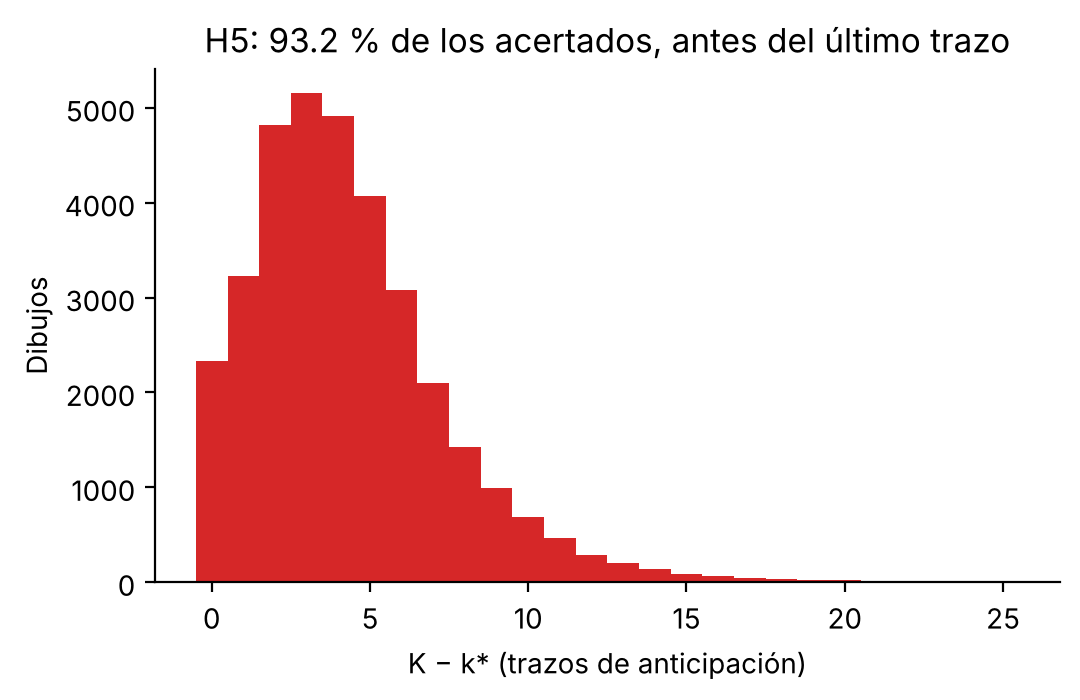
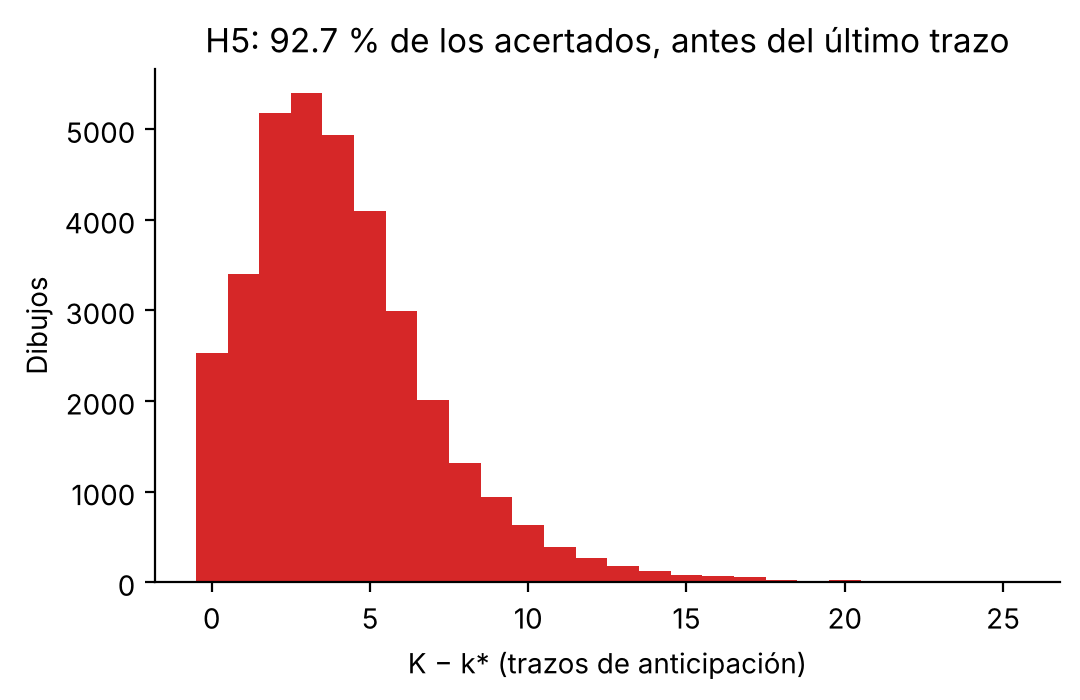
Docs y paper: resultados con el M2-P mixto y los dos esquemas para H2

diff --git a/paper/secciones/3c_modelos.tex b/paper/secciones/3c_modelos.tex
@@ -1,7 +1,8 @@
 % III-C · Redacta: Cristian · Revisa: Elias · Semana 10 · ~0,4 pág.
 % Sale de: avance 3.3 y 3.4 (Cuadro 3); docs/03 y docs/04.
 % Debe cubrir: softmax y entropía cruzada en una línea, M1, la CNN de M2
-% y M2-P (Cuadro 3, GAP), el esquema de prefijos de M2-P, la búsqueda de
+% y M2-P (Cuadro 3, GAP), el esquema mixto de M2-P y por qué se cambió desde
+% el de solo prefijos (regla fijada antes, docs/04 "Decisión sobre H2"), la búsqueda de
 % hiperparámetros, las semillas, la parada temprana y UNA línea que diga
 % que el alcance se redujo respecto al avance y por qué.
 \subsection{Modelos y entrenamiento}

diff --git a/paper/tablas/tabla_hipotesis.tex b/paper/tablas/tabla_hipotesis.tex
@@ -3,8 +3,8 @@
 Hip. & Criterio & Valor por semilla & Veredicto \\
 \midrule
 H1 & caída (pts) & 21,7; 24,0; 22,6 & confirmada \\
-H2 & IC inf. $\Delta$AUC / caída final (pts) & 0,072 / 1,8; 0,097 / 0,9; 0,075 / 2,2 & refutada \\
-H4 & $\rho$ & 0,91; 0,86; 0,91 & confirmada \\
-H5 & IC inf. prop. & 0,758; 0,749; 0,756 & confirmada \\
+H2 & IC inf. $\Delta$AUC / caída final (pts) & 0,057 / 0,6; 0,098 / -2,2; 0,067 / 0,2 & confirmada \\
+H4 & $\rho$ & 0,90; 0,89; 0,89 & confirmada \\
+H5 & IC inf. prop. & 0,765; 0,772; 0,769 & confirmada \\
 \bottomrule
 \end{tabular}

diff --git a/paper/secciones/4b_h1_h2_h5.tex b/paper/secciones/4b_h1_h2_h5.tex
@@ -1,5 +1,8 @@
 % IV-B · Redacta: Omar · Revisa: Cristian · Semanas 12 y 13 · ~0,5 pág.
 % Debe cubrir: Tabla 2, Figs. 2, 3 y 6, y el veredicto de H1, H2 y H5 con su número.
+% H2: reportar los dos esquemas de M2-P en validación (el original refutó H2;
+% el mixto la cumple) y que el cambio se decidió con una regla fijada antes.
+% El original está en trabajo/alternativas/M2-P_prefijos/resultados/validacion/.
 \subsection{¿Con cuántos trazos? (H1, H2 y H5)}
 \pendiente{H1, H2 y H5}
 

diff --git a/paper/tablas/tabla_modelos.tex b/paper/tablas/tabla_modelos.tex
@@ -4,6 +4,6 @@ Modelo & Semillas & Exactitud (\%) & Top-3 (\%) & AUC$_{\mathrm{prog}}$ \\
 \midrule
 M1 & 1 & 72,4 & 89,9 & 0,520 \\
 M2 & 3 & 82,7 $\pm$ 1,2 & 95,7 $\pm$ 0,5 & 0,611 $\pm$ 0,018 \\
-M2-P & 3 & 81,0 $\pm$ 0,6 & 94,7 $\pm$ 0,2 & 0,695 $\pm$ 0,004 \\
+M2-P & 3 & 83,1 $\pm$ 0,5 & 95,7 $\pm$ 0,2 & 0,687 $\pm$ 0,004 \\
 \bottomrule
 \end{tabular}

diff --git a/docs/00_como_ejecutar.md b/docs/00_como_ejecutar.md
@@ -40,7 +40,7 @@ Tiempos medidos en la corrida oficial (CPU de 4 núcleos, sin GPU, 27 de octubre
 |---|---|---|---|
 | Datos | Lee 300 000 dibujos y rasteriza sus 1,87 millones de prefijos (entrenamiento + validación) | 6 min con 4 procesos | 10 a 20 min la primera vez (2 procesos); luego se lee la caché |
 | Búsqueda | 12 combinaciones de M2 y 3 de M1, con 5 épocas y el 30 % de los datos | 64 min | ya hecha: solo se lee |
-| Entrenamiento | M1 (1 semilla), M2 y M2-P (3 semillas cada uno), hasta 20 épocas | 3 h 33 min (~135 s por época de M2 o M2-P; ~10 s de M1) | ya hecho: solo se carga |
+| Entrenamiento | M1 (1 semilla), M2 y M2-P (3 semillas cada uno), hasta 20 épocas | 3 h 33 min con el M2-P original (~135 s por época de M2 o M2-P; ~10 s de M1); el M2-P mixto, 1 h 32 min más (~100 s por época) | ya hecho: solo se carga |
 | Evaluación | Métricas, hipótesis y figuras en validación | 14 min la primera vez; ~3 min con las predicciones guardadas | unos minutos |
 
 En total, 4 h 57 min. La caché ocupa unos 1,5 GB en disco y la corrida usó unos 4,6 GB de RAM: cabe en Colab. Si reentrenan algo en una T4, será más rápido que en CPU (AMP se activa solo con GPU).
@@ -51,7 +51,7 @@ En total, 4 h 57 min. La caché ocupa unos 1,5 GB en disco y la corrida usó uno
 modelos = E.entrenar_modelos(cfg, D, hp, nombres=("M2",))
 ```
 
-y en la otra `nombres=("M2-P",)`. Solo hace falta si reentrenan (por ejemplo, el esquema mixto de `04_entrenamiento_y_busqueda.md`). Al final, una sola persona ejecuta todo el notebook: los modelos ya entrenados solo se cargan.
+y en la otra `nombres=("M2-P",)`. Solo hace falta si reentrenan (por ejemplo, otra proporción del esquema mixto de `04_entrenamiento_y_busqueda.md`). Al final, una sola persona ejecuta todo el notebook: los modelos ya entrenados solo se cargan.
 
 ## 4. Retomar cuando Colab corta la sesión
 
@@ -108,7 +108,7 @@ display(R_p["veredictos"])
 
 `evaluar` escribe en `trabajo_pruebas/resultados/validacion/` y deja intacto `trabajo/`. Con funciones sueltas (`metricas`, `analisis`, `estadistica`) no se escribe nada en disco.
 
-**Experimentos que reentrenan** (otro grosor, otros dibujos por categoría, el esquema mixto…). En la primera celda pongan `CARPETA_TRABAJO = "trabajo_pruebas"` o `MODO_RAPIDO = True`, y hagan el cambio en la línea `cfg = replace(cfg, ...)` de la segunda celda, que va **después** de `config_rapida` (si no, el modo rápido lo pisa). En `trabajo_pruebas` el notebook reentrena todo con datos completos (horas); en modo rápido tarda minutos pero los números no significan nada: sirve para ver el efecto, no para el paper.
+**Experimentos que reentrenan** (otro grosor, otros dibujos por categoría, otra proporción del esquema mixto…). En la primera celda pongan `CARPETA_TRABAJO = "trabajo_pruebas"` o `MODO_RAPIDO = True`, y hagan el cambio en la línea `cfg = replace(cfg, ...)` de la segunda celda, que va **después** de `config_rapida` (si no, el modo rápido lo pisa). En `trabajo_pruebas` el notebook reentrena todo con datos completos (horas); en modo rápido tarda minutos pero los números no significan nada: sirve para ver el efecto, no para el paper.
 
 Si un cambio va a quedarse, se decide en grupo con resultados de validación y se anota para el paper.
 
@@ -131,11 +131,12 @@ Fuera de Colab, el notebook usa como raíz la carpeta de arriba de `notebooks/` 
 
 ## 10. La corrida oficial (`trabajo/`)
 
-Hecha el 27 de octubre de 2026 en CPU, con la configuración por defecto de `config.py` (grosor 16, margen 2) y **solo validación**: el conjunto de prueba no se tocó (`USAR_PRUEBA = False`). Está en el repositorio: `trabajo/modelos/` (pesos, historial e hiperparámetros de cada modelo) y `trabajo/resultados/` (búsqueda, particiones, predicciones, métricas, hipótesis, figuras y tablas LaTeX).
+Hecha el 27 de octubre de 2026 en CPU (el M2-P mixto, el 28), con la configuración por defecto de `config.py` (grosor 16, margen 2, `esquema_m2p = "mixto"`) y **solo validación**: el conjunto de prueba no se tocó (`USAR_PRUEBA = False`). Está en el repositorio: `trabajo/modelos/` (pesos, historial e hiperparámetros de cada modelo) y `trabajo/resultados/` (búsqueda, particiones, predicciones, métricas, hipótesis, figuras y tablas LaTeX).
 
 - **Búsqueda.** M2: Adam, η = 0,003, sin dropout (79,0 % en validación; la mejor con SGD, 57,6 %). M1: Adam, η = 0,003. M2-P hereda la de M2. La tasa elegida es la más alta de la rejilla.
-- **Modelos** (validación, todas las categorías, media ± desviación de 3 semillas): exactitud final M1 72,4 %, M2 82,7 ± 1,2 %, M2-P 81,0 ± 0,6 %; AUC progresiva 0,520, 0,611 ± 0,018 y 0,695 ± 0,004.
-- **Hipótesis en validación:** H1, H4 y H5 confirmadas en las tres semillas; **H2 refutada**: M2-P gana AUC en las tres (límite inferior del IC entre 0,072 y 0,097) pero pierde 1,8, 0,9 y 2,2 puntos de exactitud final, y el criterio permite 1. Ver "Si H2 falla" en `04_entrenamiento_y_busqueda.md`.
-- **Parada temprana.** M2 con la semilla 1 se detuvo en la época 6 (mejor época, la 3) y quedó en 81,3 %, frente a 83,3 % y 83,5 % de las otras dos. Es la única semilla en la que H2 se cumple.
+- **Modelos** (validación, todas las categorías, media ± desviación de 3 semillas): exactitud final M1 72,4 %, M2 82,7 ± 1,2 %, M2-P 83,1 ± 0,5 %; AUC progresiva 0,520, 0,611 ± 0,018 y 0,688 ± 0,004.
+- **Hipótesis en validación:** H1, H2, H4 y H5 confirmadas en las tres semillas.
+- **H2 y el esquema de M2-P.** Con el esquema original del plan v5 (siempre un prefijo al azar), H2 salió refutada: M2-P perdía 1,8, 0,9 y 2,2 puntos de exactitud final. Se aplicó el plan B, el esquema mixto, con una regla fijada antes de entrenarlo; lo cumplió y es el M2-P oficial. El original está en `trabajo/alternativas/M2-P_prefijos/`, y el paper reporta los dos. Detalle en "Decisión sobre H2" de `04_entrenamiento_y_busqueda.md`.
+- **Parada temprana.** M2 con la semilla 1 se detuvo en la época 6 (mejor época, la 3) y quedó en 81,3 %, frente a 83,3 % y 83,5 % de las otras dos. Por eso, con esa semilla, M2-P supera a M2 al final.
 
 Los resultados de **prueba** se generan una sola vez, en la semana 13 (sección 8).

diff --git a/docs/04_entrenamiento_y_busqueda.md b/docs/04_entrenamiento_y_busqueda.md
@@ -9,9 +9,10 @@
 ### Qué imagen ve cada modelo (`indices_de_epoca`)
 
 - **M1 y M2 (`'completos'`):** en cada época, el dibujo completo de cada dibujo de entrenamiento.
-- **M2-P (`'prefijos'`):** en cada época, **un prefijo al azar** de cada dibujo, con k uniforme entre 1 y K. En la época siguiente se sortea otro k.
+- **M2-P (`'mixto'`, el oficial):** en cada época, con probabilidad `m2p_prob_completo = 0.5` el dibujo completo, y si no **un prefijo al azar**, con k uniforme entre 1 y K. En la época siguiente se vuelve a sortear.
+- **M2-P original del plan v5 (`'prefijos'`):** siempre un prefijo al azar. Refutó H2 en validación y quedó como alternativa en `trabajo/alternativas/M2-P_prefijos/` (ver "Decisión sobre H2", al final).
 
-Cada dibujo aporta una imagen por época en los dos esquemas, así que M2 y M2-P hacen el mismo número de pasos y los dibujos con muchos trazos no pesan más.
+Cada dibujo aporta una imagen por época en todos los esquemas, así que M2 y M2-P hacen el mismo número de pasos y los dibujos con muchos trazos no pesan más.
 
 ### Bucle de entrenamiento (`entrenar`)
 
@@ -52,9 +53,11 @@ M2 y M2-P se entrenan con las semillas 0, 1 y 2; M1 solo con la 0 (`semillas_m1`
 | Entrenar solo un modelo | `E.entrenar_modelos(cfg, D, hp, nombres=("M2-P",))` |
 | Elegir hiperparámetros a mano | Editen el diccionario `hp` en el notebook antes de `entrenar_modelos`; si cambian `hp["M2"]`, cambien también `hp["M2-P"]` (debe heredar la misma) |
 
-### Si H2 falla porque M2-P pierde exactitud final
+### H2 y el esquema mixto
 
-En la corrida oficial (validación, `00_como_ejecutar.md`, sección 10) pasó justo esto: M2-P ganó entre 0,074 y 0,100 de AUC progresiva, pero perdió 1,8, 0,9 y 2,2 puntos de exactitud final con las semillas 0, 1 y 2; el criterio de H2 permite 1, así que H2 queda refutada. Si el grupo decide modificar el método, una opción razonable es **mezclar dibujos completos** en el entrenamiento de M2-P: por ejemplo, con probabilidad 0,5 usar el dibujo completo y si no un prefijo al azar. Ya está implementado: en el notebook, al crear `cfg`, agreguen `esquema_m2p="mixto"` (y si quieren otra proporción, `m2p_prob_completo=0.3`). Para reentrenar M2-P, borren antes `trabajo/modelos/M2-P_s*` y `trabajo/resultados/predicciones_*` o el notebook se detiene avisando que la configuración cambió. Conviene probarlo primero en `trabajo_pruebas` (`00_como_ejecutar.md`, sección 7). En CPU, las tres semillas de M2-P tardaron unas 2 h; en una T4, menos.
+Con el esquema original (un prefijo al azar), en validación pasó justo esto: M2-P ganó entre 0,074 y 0,100 de AUC progresiva, pero perdió 1,8, 0,9 y 2,2 puntos de exactitud final con las semillas 0, 1 y 2; el criterio de H2 permite 1. La modificación prevista es **mezclar dibujos completos** en el entrenamiento de M2-P: con probabilidad 0,5 el dibujo completo y si no un prefijo al azar (`esquema_m2p="mixto"`, que ahora es el valor por defecto de `config.py`). Se aplicó con la regla de la sección siguiente.
+
+Para experimentar con otra proporción o volver al esquema original, háganlo en `trabajo_pruebas` (`00_como_ejecutar.md`, sección 7) con `cfg = replace(cfg, esquema_m2p="prefijos")` o `m2p_prob_completo=0.3`; sobre `trabajo/` el notebook se detiene avisando que la configuración cambió. En CPU, las tres semillas de M2-P tardan entre 1,5 y 2 h; en una T4, menos.
 
 Es un cambio de método: debe decidirse con los resultados de **validación** (nunca de prueba) y declararse en el paper.
 
@@ -67,3 +70,5 @@ Con el esquema original, M2-P perdió más de 1 punto de exactitud final en vali
 3. **Regla para adoptarlo.** El esquema mixto pasa a ser el M2-P oficial si cumple el criterio de H2 **en las tres semillas** (límite inferior del IC 95 % de la diferencia de AUC > 0 y caída de exactitud final ≤ 1 punto). Si no lo cumple, se mantiene el esquema original y H2 se reporta refutada.
 4. **Qué se reporta.** En los dos casos, el paper reporta los resultados de validación de **ambos** esquemas y dice que el cambio se decidió con esta regla, antes de la prueba. Si se adopta el mixto, H4 y H5 se reevalúan con él, porque también usan M2-P.
 5. **La prueba.** En la semana 13 se evalúa solo el M2-P oficial. El otro esquema queda guardado en `trabajo/alternativas/` para el paper y no se evalúa en prueba.
+
+**Resultado (28 de octubre de 2026).** El esquema mixto cumplió el criterio de H2 en las tres semillas: límite inferior del IC de la diferencia de AUC 0,057, 0,098 y 0,067, y caída de exactitud final 0,6, −2,2 y 0,2 puntos (con la semilla 1, M2-P supera a M2, que se detuvo temprano en la época 6). Según la regla, **el mixto pasó a ser el M2-P oficial** (`trabajo/modelos/M2-P_s*`) y H4 y H5 se reevaluaron con él: siguen confirmadas. El esquema original quedó en `trabajo/alternativas/M2-P_prefijos/` para el paper. Entrenar las tres semillas tardó 1 h 32 min en CPU.

diff --git a/README.md b/README.md
@@ -8,7 +8,7 @@ Se entrenan tres modelos sobre 30 categorías de Quick, Draw! (5 pares confundib
 
 - **M1**, perceptrón multicapa, como referencia;
 - **M2**, CNN entrenada con dibujos completos;
-- **M2-P**, la misma CNN entrenada con un prefijo al azar de cada dibujo.
+- **M2-P**, la misma CNN entrenada con prefijos: en cada época, con probabilidad 0,5 el dibujo completo y si no un prefijo al azar (esquema mixto; ver la decisión sobre H2 en [`docs/04`](docs/04_entrenamiento_y_busqueda.md)).
 
 ## Empezar
 
